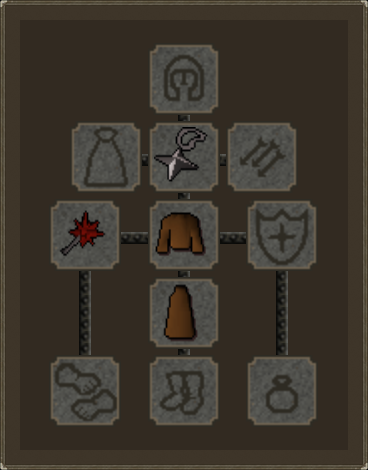
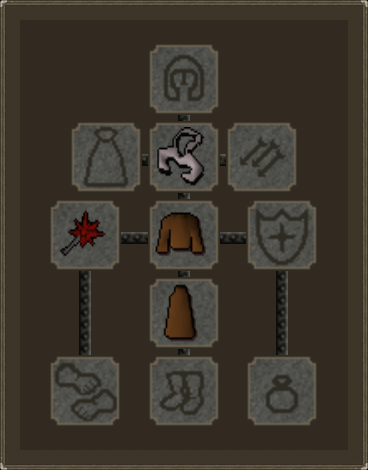
fix: switching to unholy symbol for offense

Changed region(s): [[0.4185, 0.2681, 0.5679, 0.417]]

diff --git a/pages/specialguides/guides/bis.php b/pages/specialguides/guides/bis.php
@@ -692,11 +692,11 @@ function getSpecialGuide($currSpecialGuide) { return <<<HTML
         <table class="subtable">
             <tbody>
                 <tr><th>Attack bonus</th><th>Defence bonus</th></tr>
-                <tr><td>Stab: 40</td><td>Stab: 2</td></tr>
-                <tr><td>Slash: -2</td><td>Slash: 2</td></tr>
-                <tr><td>Crush: 60</td><td>Crush: 2</td></tr>
-                <tr><td>Magic: 0</td><td>Magic: 2</td></tr>
-                <tr><td>Range: 0</td><td>Range: 2</td></tr>
+                <tr><td>Stab: 42</td><td>Stab: 0</td></tr>
+                <tr><td>Slash: 0</td><td>Slash: 0</td></tr>
+                <tr><td>Crush: 62</td><td>Crush: 0</td></tr>
+                <tr><td>Magic: 2</td><td>Magic: 0</td></tr>
+                <tr><td>Range: 2</td><td>Range: 0</td></tr>
                 <tr><th colspan="2">Other bonuses</th></tr>
                 <tr><td>Strength: 55</td><td>Prayer: 24</td></tr>
             </tbody>
@@ -710,13 +710,13 @@ function getSpecialGuide($currSpecialGuide) { return <<<HTML
         <th>Description</th>
     </tr>
     <tr>
-        <td>Neck</td>
-        <td><canvas data-itemname="blessedstar"></canvas><canvas data-itemname="blessedsnake"></canvas><br>Holy or Unholy Symbol<br>
-        Holy gives +2 to all Defence Bonuses<br>
-        Unholy gives +2 to all Attack Bonuses
-        </td>
-        <td>+8 Prayer Bonus</td>
+        <td rowspan="2">Neck</td>
+        <td><div class="centered-content"><canvas data-itemname="blessedsnake" data-show-label="inline"></canvas>*</div></td>
+        <td>+8 Prayer Bonus<br>+2 to all Attack Bonuses</td>
     </tr>
+    <tr>
+        <td><div class="centered-content"><canvas data-itemname="blessedstar" data-show-label="inline"></canvas>*</div></td>
+        <td>+8 Prayer Bonus<br>+2 to all Defence Bonuses</td>
     <tr>
         <td>Weapon</td>
         <td><canvas data-itemname="dragon_mace" data-show-label="inline"></canvas></td>
@@ -733,8 +733,9 @@ function getSpecialGuide($currSpecialGuide) { return <<<HTML
         <td>+6 Prayer Bonus</td>
     </tr>
 </table>
+*Use the Unholy Symbol instead of the Holy Symbol when overhead prayers are active, as the former provides better offensive stats.
 <hr>
 This quest guide was written on 2004HQ by Fallnight. Thanks to Geerin and Fran 2004 for corrections.
 <br><br>
-This quest guide was entered into the database on Wed, Jul 30, 2025, at 11:51:20 PM by Halogod35 and was last updated on Wed, Aug 06, 2025, at 01:18:35 PM by Halogod35.
+This quest guide was entered into the database on Wed, Jul 30, 2025, at 11:51:20 PM by Halogod35 and was last updated on Wed, Aug 06, 2025, at 01:59:51 PM by Halogod35.
 HTML; }
